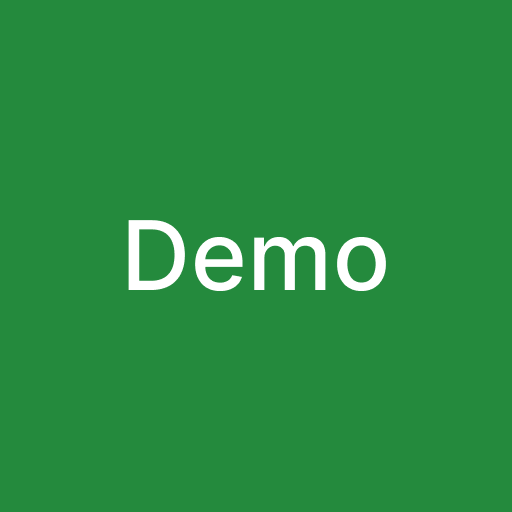
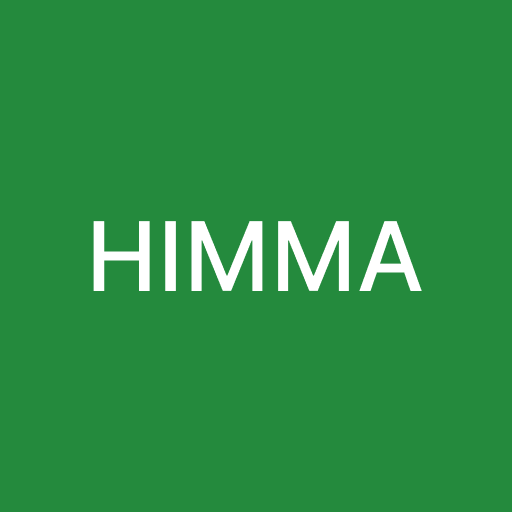
all finished v2 new name HIMMA

Changed region(s): [[0.1562, 0.4062, 0.8438, 0.5938]]

diff --git a/src/pages/SabrIntro.jsx b/src/pages/SabrIntro.jsx
@@ -38,10 +38,10 @@ export default function SabrIntro() {
       {/* Заголовок WAQTI APP */}
       <div style={{ marginBottom: spacing.xxxl, maxWidth: 500 }}>
         <h1 style={{ ...typography.heading, color: colors.primary, fontSize: '2.5rem', marginBottom: spacing.md }}>
-          WAQTI APP
+          HIMMA APP
         </h1>
         <p style={{ ...typography.body, color: colors.blackNear, marginBottom: spacing.lg }}>
-          Waqti app is an application for Muslims who want to remain productive in both their worldly and spiritual lives.
+          Himma app is an application for Muslims who want to remain productive in both their worldly and spiritual lives.
         </p>
         <p style={{ ...typography.body, color: colors.blackNear, marginBottom: spacing.lg, fontStyle: 'italic' }}>
           The project is currently in development. We need your help—we need to raise $1,000 for the app's release and marketing. We have already raised $543!

diff --git a/src/pages/About.jsx b/src/pages/About.jsx
@@ -84,10 +84,10 @@ export default function SabrIntro() {
       {/* Заголовок WAQTI APP */}
       <div style={{ marginBottom: spacing.xxxl, maxWidth: 500 }}>
         <h1 style={{ ...typography.heading, color: colors.primary, fontSize: '2.5rem', marginBottom: spacing.md }}>
-          ABOUT WAQTI APP
+          ABOUT HIMMA APP
         </h1>
         <p style={{ ...typography.body, color: colors.blackNear, marginBottom: spacing.lg }}>
-          Waqti app is an application for Muslims who want to remain productive in both their worldly and spiritual lives.
+          Himma app is an application for Muslims who want to remain productive in both their worldly and spiritual lives.
         </p>
         <p style={{ ...typography.body, color: colors.blackNear, marginBottom: spacing.lg, fontStyle: 'italic' }}>
           Main function - goals and habbits tracking
